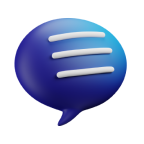
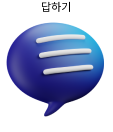
feat: 자녀 질문 메인 스타일 수정  (#S09P22C207-103)

diff --git a/client/lib/screens/question_page/question_page.dart b/client/lib/screens/question_page/question_page.dart
@@ -31,10 +31,10 @@ class _QuestionPageState extends State<QuestionPage> {
   @override
   Widget build(BuildContext context) {
     return Scaffold(
-      backgroundColor: Color(0xFF8320E7),
+      backgroundColor: Color(0xFFA086EE),
       appBar: MyHeader(
-        text: '자식질문',
-        bgColor: Color(0xFF8320E7),
+        text: '',
+        bgColor: Color(0xFFA086EE),
         elementColor: Colors.white,
         backPath: ChildMainPage(),
       ),
@@ -49,33 +49,32 @@ class _QuestionPageState extends State<QuestionPage> {
               data = snapshot.data ?? []; // 여기에서 snapshot의 데이터를 받아옵니다.
               return Center(
                 child: Column(children: [
-                  Container(
-                    height: 10,
-                    width: 410,
-                    color: Color(0xFFD9D9D9).withOpacity(0.5),
-                    child: SizedBox(),
+                  //
+
+                  Image.asset(
+                    'assets/image/question/maintitle.png',
+                    width: 250.0,
+                    height: 100.0,
+                    fit: BoxFit.cover,
                   ),
-                  SizedBox(
-                    height: 100,
+
+                  Image.asset(
+                    'assets/image/question/micandfaces.png',
+                    width: 275.0,
+                    height: 270.0,
+                    fit: BoxFit.cover,
                   ),
-                  Text(
-                    '오늘의 질문에 답해보세요',
-                    style: TextStyle(
-                      fontSize: 24,
-                      color: Colors.white,
-                    ),
-                  ),
+
                   SizedBox(
                     height: 15,
                   ),
+
                   GestureDetector(
                     onTap: () {
                       if (data.length >= 1) {
                         Navigator.of(context).push(MaterialPageRoute(
-                          builder: (context) => ChildDiaryDetailPage(
-                            item: data[0],
-                            index: 0
-                          ),
+                          builder: (context) =>
+                              ChildDiaryDetailPage(item: data[0], index: 0),
                         ));
                       } else {
                         showDialog(
@@ -98,7 +97,7 @@ class _QuestionPageState extends State<QuestionPage> {
                     child: Container(
                       width: double.infinity,
                       margin: EdgeInsets.symmetric(horizontal: 24),
-                      height: 150,
+                      height: 250,
                       decoration: BoxDecoration(
                         color: Colors.white,
                         border: Border.all(color: Colors.white, width: 2.0),
@@ -116,106 +115,27 @@ class _QuestionPageState extends State<QuestionPage> {
                         mainAxisAlignment: MainAxisAlignment.center, // 가운데 정렬
                         crossAxisAlignment: CrossAxisAlignment.center, // 가운데 정렬
                         children: [
-                          Text(
-                            DateFormat('yyyy년 MM월 dd일').format(DateTime.now()) +
-                                "의 질문",
-                            style: TextStyle(
-                                fontSize: 16, fontWeight: FontWeight.bold),
-                          ),
+                          // Text(DateFormat('yyyy년 MM월 dd일').format(DateTime.now()) + "의 질문",
+                          //   style: TextStyle(fontSize: 16, fontWeight: FontWeight.bold),),
                           data != null && data.isNotEmpty
                               ? Text(
-                                  "Q." + data[0]["content"],
+                                  data[0]["content"],
                                   style: TextStyle(fontSize: 20),
                                 )
                               : Text("오늘의 질문이 없습니다. "),
+                          Row(
+                            children: [
+                              _ansBtn(),
+                              _diaryBtn(),
+                            ],
+                          ),
                         ],
                       ),
                     ),
                   ),
+
                   SizedBox(
                     height: 16,
-                  ),
-                  Container(
-                    width: double.infinity,
-                    margin: EdgeInsets.symmetric(horizontal: 24),
-                    child: ElevatedButton(
-                      onPressed: () {
-                        Navigator.of(context).push(MaterialPageRoute(
-                            builder: (context) => QuestionSendPage()));
-                      },
-                      style: ElevatedButton.styleFrom(
-                        primary: Colors.white,
-                        onPrimary: Colors.black,
-                        padding: EdgeInsets.symmetric(horizontal: 24),
-                        shape: RoundedRectangleBorder(
-                          borderRadius: BorderRadius.circular(8.0),
-                        ),
-                      ),
-                      child: Text('내일의 질문 생성하기'),
-                    ),
-                  ),
-                  Container(
-                    width: double.infinity,
-                    margin: EdgeInsets.symmetric(horizontal: 24),
-                    child: ElevatedButton(
-                      onPressed: () {
-                        Navigator.of(context).push(MaterialPageRoute(
-                            builder: (context) => ChildDiaryPage()));
-                      },
-                      style: ElevatedButton.styleFrom(
-                        primary: Colors.white,
-                        onPrimary: Colors.black,
-                        padding: EdgeInsets.symmetric(horizontal: 24),
-                        shape: RoundedRectangleBorder(
-                          borderRadius: BorderRadius.circular(8.0),
-                        ),
-                      ),
-                      child: Text('일기 페이지'),
-                    ),
-                  ),
-                  Container(
-                    width: double.infinity,
-                    margin: EdgeInsets.symmetric(horizontal: 24),
-                    child: ElevatedButton(
-                      onPressed: () {
-                        if (data != null &&
-                            data.isNotEmpty &&
-                            data[0]["content"] != null &&
-                            data[0]["id"] != null) {
-                          Navigator.of(context).push(MaterialPageRoute(
-                            builder: (context) => QeustionAnswerPage(
-                              questionText: data[0]["content"]!,
-                              questionId: data[0]["id"]!,
-                            ),
-                          ));
-                        } else {
-                          showDialog(
-                            context: context,
-                            builder: (context) => AlertDialog(
-                              title: Text('알림'),
-                              content: Text('오늘의 질문이 없습니다.'),
-                              actions: <Widget>[
-                                TextButton(
-                                  child: Text('확인'),
-                                  onPressed: () {
-                                    Navigator.of(context).pop();
-                                  },
-                                ),
-                              ],
-                            ),
-                          );
-                        }
-                      },
-                      style: ElevatedButton.styleFrom(
-                        primary: Colors.white,
-                        onPrimary: Colors.black,
-                        padding: EdgeInsets.symmetric(horizontal: 24),
-                        shape: RoundedRectangleBorder(
-                          borderRadius: BorderRadius.circular(8.0),
-                        ),
-                      ),
-                      child: Text('오늘의 질문 대답하기'),
-                    ),
                   ),
                 ]),
               );
@@ -225,6 +145,67 @@ class _QuestionPageState extends State<QuestionPage> {
     );
   }
 
+  Widget _ansBtn() {
+    return Container(
+      width: 100,
+      child: ElevatedButton(
+        onPressed: () {
+          if (data != null &&
+              data.isNotEmpty &&
+              data[0]["content"] != null &&
+              data[0]["id"] != null) {
+            Navigator.of(context).push(MaterialPageRoute(
+              builder: (context) => QeustionAnswerPage(
+                questionText: data[0]["content"]!,
+                questionId: data[0]["id"]!,
+              ),
+            ));
+          } else {
+            showDialog(
+              context: context,
+              builder: (context) => AlertDialog(
+                title: Text('알림'),
+                content: Text('오늘의 질문이 없습니다.'),
+                actions: <Widget>[
+                  TextButton(
+                    child: Text('확인'),
+                    onPressed: () {
+                      Navigator.of(context).pop();
+                    },
+                  ),
+                ],
+              ),
+            );
+          }
+        },
+        style: ElevatedButton.styleFrom(
+          primary : Colors.red.withOpacity(0.0), 
+          elevation: 0,  // 투명한 빨간색 배경
+        ),
+        child :Image.asset( 'assets/image/question/answer.png', width: 80.0, height: 80.0, fit: BoxFit.cover, ),
+      ),
+    );
+  }
+
+  Widget _diaryBtn() {
+    return Container(
+      width: 100,
+      margin: EdgeInsets.symmetric(horizontal: 24),
+      child: ElevatedButton(
+        onPressed: () {
+          Navigator.of(context)
+              .push(MaterialPageRoute(builder: (context) => ChildDiaryPage()));
+        },
+        style: ElevatedButton.styleFrom(
+          primary : Colors.red.withOpacity(0.0), 
+          elevation: 0,  // 투명한 빨간색 배경
+        ),
+        child: Image.asset( 'assets/image/question/folder.png', width: 80.0, height: 80.0, fit: BoxFit.cover, ),
+      ),
+    );
+  }
+
+  //비동기 요청
   Future<List<Map<String, dynamic>>> getData() async {
     // Dio 객체 생성
     final dio = Dio();
@@ -359,10 +340,9 @@ class _ParentQuestionPageState extends State<ParentQuestionPage> {
                       if (data.length >= 1) {
                         Navigator.of(context).push(MaterialPageRoute(
                           builder: (context) => ParentDiaryDetailPage(
-                            // 여기는 부모 페이지를 나타내는 클래스로 변경해야 합니다.
-                            item: data[0],
-                            index: 0
-                          ),
+                              // 여기는 부모 페이지를 나타내는 클래스로 변경해야 합니다.
+                              item: data[0],
+                              index: 0),
                         ));
                       } else {
                         showDialog(

diff --git a/client/lib/screens/diary_page/diary_page.dart b/client/lib/screens/diary_page/diary_page.dart
@@ -439,7 +439,7 @@ class _ChildDiaryDetailPageState extends State<ChildDiaryDetailPage> {
 }
 
 //부모 일기 페이지
-class ParentDiaryPage extends StatefulWidget {
+class ParentDiaryPage extends StatefulWidget { 
   const ParentDiaryPage({super.key});
 
   @override

diff --git a/client/android/app/src/main/kotlin/com/example/client/MainActivity.kt b/client/android/app/src/main/kotlin/com/example/client/MainActivity.kt
@@ -1,0 +1,6 @@
+package com.example.client
+
+import io.flutter.embedding.android.FlutterActivity
+
+class MainActivity: FlutterActivity() {
+}
